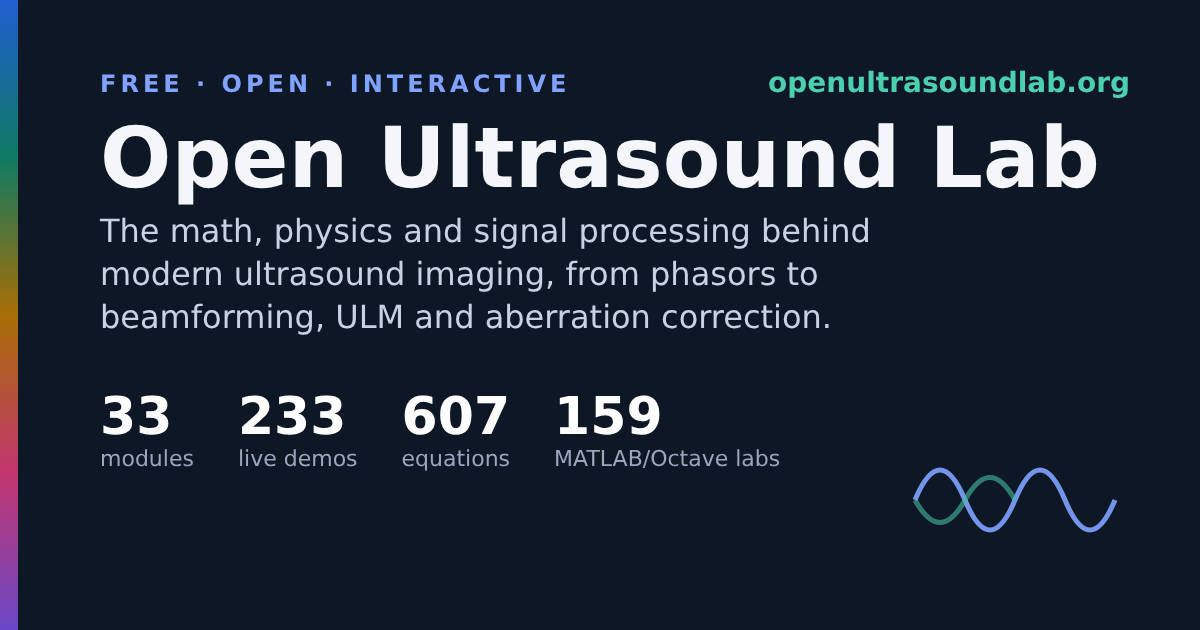
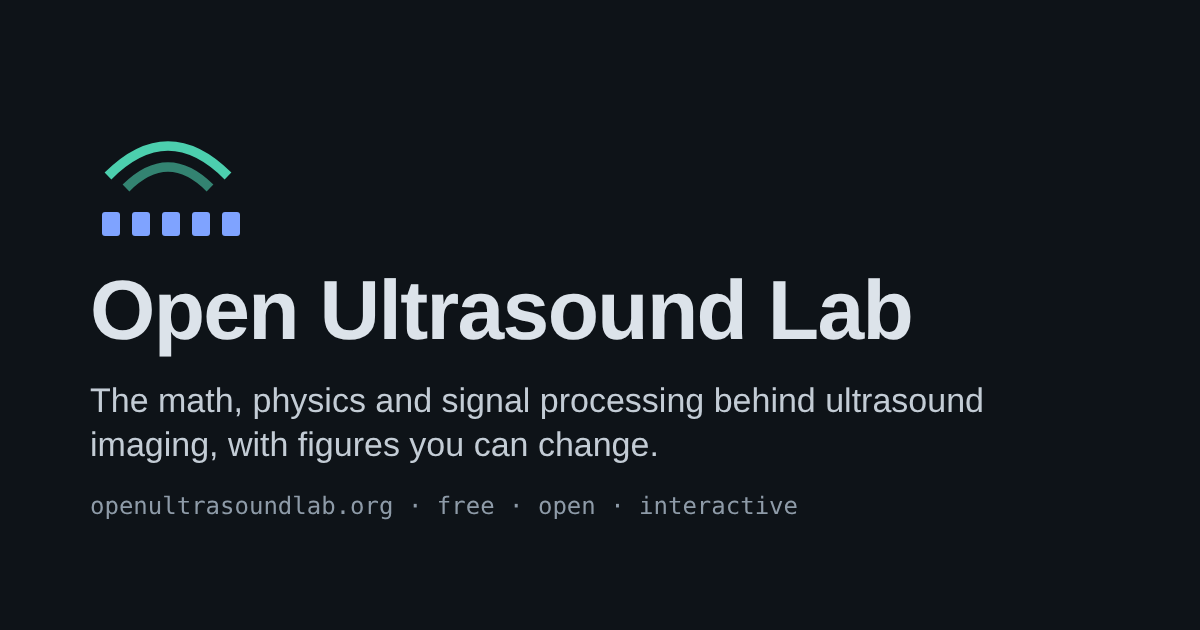
V1.3.1, new header, homepage

diff --git a/m33.html b/m33.html
@@ -93,7 +93,7 @@
     <p>Using more pairs breaks the random walk. Every pair \((i, j)\) up to a lag \(L\) gives a measured difference \(\hat d_{ij}\) of known reliability, and the profile is the weighted least-squares solution of an overdetermined system (Module 13) whose unknowns sit on the nodes of a graph and whose data sit on its edges, with one extra row to fix the constant:</p>
     <div class="eqn" id="m33-eq5">
       <div class="eqn-body"><div class="eqn-math">\[ \hat{\mathbf{t}} = \arg\min_{\mathbf{t}} \sum_{1 \le j - i \le L} w_{ij}\,\bigl(\tau_j - \tau_i - \hat d_{ij}\bigr)^{2} + \bigl(\mathbf{1}^{T}\mathbf{t}\bigr)^{2} = \bigl(\mathbf{A}^{T}\mathbf{W}\mathbf{A} + \mathbf{1}\mathbf{1}^{T}\bigr)^{-1}\mathbf{A}^{T}\mathbf{W}\,\hat{\mathbf{d}}, \qquad w_{ij} = \frac{\lvert\rho_{ij}\rvert^{2}}{1 - \lvert\rho_{ij}\rvert^{2}} \]</div><span class="eqn-no">(33.5)</span></div>
-      <dl class="where"><dt>\(\mathbf{t}\)</dt><dd>vector of element delays \(\tau_i\), s</dd><dt>\(\mathbf{A}\)</dt><dd>difference operator: one row per pair, −1 at \(i\), +1 at \(j\)</dd><dt>\(\mathbf{W}\)</dt><dd>diagonal weights; \(w_{ij}\) is proportional to the inverse variance of a correlation phase (Module 11, Section 32.4)</dd><dt>\(\rho_{ij}\)</dt><dd>measured correlation coefficient of the pair</dd><dt>\(L\)</dt><dd>maximum lag used</dd><dt>\(\hat{\mathbf{t}},\ \hat{\mathbf{d}}\)</dt><dd>estimated delay vector and vector of measured pair differences \(\hat d_{ij}\), s</dd><dt>\(\tau_i,\ \tau_j\)</dt><dd>delays of elements \(i\) and \(j\), s</dd><dt>\(w_{ij}\)</dt><dd>weight of pair \((i,j)\), dimensionless</dd><dt>\(\mathbf{1}\)</dt><dd>vector of ones (the term pins the mean delay to zero)</dd><dt>\((\cdot)^{T},\ (\cdot)^{-1}\)</dt><dd>transpose, matrix inverse</dd><dt>\(\arg\min\)</dt><dd>minimizing argument</dd></dl>
+      <dl class="where"><dt>\(\mathbf{t}\)</dt><dd>vector of element delays \(\tau_i\), s</dd><dt>\(\mathbf{A}\)</dt><dd>difference operator: one row per pair, −1 at \(i\), +1 at \(j\)</dd><dt>\(\mathbf{W}\)</dt><dd>diagonal weights; \(w_{ij}\) is proportional to the inverse variance of a correlation phase (Module 11; Module 32, Section 32.4)</dd><dt>\(\rho_{ij}\)</dt><dd>measured correlation coefficient of the pair</dd><dt>\(L\)</dt><dd>maximum lag used</dd><dt>\(\hat{\mathbf{t}},\ \hat{\mathbf{d}}\)</dt><dd>estimated delay vector and vector of measured pair differences \(\hat d_{ij}\), s</dd><dt>\(\tau_i,\ \tau_j\)</dt><dd>delays of elements \(i\) and \(j\), s</dd><dt>\(w_{ij}\)</dt><dd>weight of pair \((i,j)\), dimensionless</dd><dt>\(\mathbf{1}\)</dt><dd>vector of ones (the term pins the mean delay to zero)</dd><dt>\((\cdot)^{T},\ (\cdot)^{-1}\)</dt><dd>transpose, matrix inverse</dd><dt>\(\arg\min\)</dt><dd>minimizing argument</dd></dl>
       <span class="note">\(\mathbf{A}^{T}\mathbf{W}\mathbf{A}\) is a weighted graph Laplacian whose only null vector is the constant; the \(\mathbf{1}\mathbf{1}^{T}\) term removes it. With \(L = 1\) the solution is the integrated nearest-neighbour estimate; each added lag adds a path between distant elements that does not accumulate the intermediate errors.</span>
     </div>
     <p>m33_nn_crosscorr_correction.m synthesizes speckle channel data (128 elements, 60 % bandwidth, dynamic receive focus) through a 40 ns, 4 mm screen applied on transmit and receive, and finds two regimes. <strong>Noiseless speckle</strong>: the adjacent-element correlation is 0.992, the pair jitter only 0.68 ns, yet the residual after correction is 5.7 ns rms, three times the random-walk prediction, and least squares does not reduce it. That residual is a <em>bias</em>: the aberrated transmit beam insonifies a broad, irregular spot, and the echoes estimate the law that focuses on that spot, not on the intended point. Transmitting again with the pass-1 estimate narrows the spot and halves the residual (2.6 ns, Strehl 0.992). <strong>0 dB channel SNR</strong>: correlation 0.50, jitter 4.5 ns, and now the drift dominates: after the transmit iteration the nearest-neighbour residual is 8.3 ns (Strehl 0.93) and least squares over 8 lags gives 4.0 ns (Strehl 0.98). The random-walk bound \(\sigma_\varepsilon\sqrt{N/15}\) = 13.1 ns overestimates because part of the error is element noise, which telescopes.</p>

diff --git a/build_site.py b/build_site.py
@@ -247,14 +247,55 @@ SITE_CSS = r'''<style>
 @media (max-width: 860px) {
   .site-rail details.part, .site-rail .quick, .site-rail .part h4 { display: none; }
   .site-rail .part.cur { display: contents; }
+  .site-rail .brand .bt { display: none; } .site-rail .brand .mark { width: 30px; height: 26px; }
   .site-rail .allmods { display: block; white-space: nowrap; font: 600 0.82rem var(--f-display); text-decoration: none; padding: 6px 8px; }
   .page-meta { margin-top: 0; }
 }
+.site-rail .rmenu { display: none; }
+@media (max-width: 860px) {
+  .site-rail .rmenu { display: block; position: sticky; right: 0; margin-left: auto; padding-left: 6px; background: var(--paper); z-index: 2; }
+  .site-rail .rmenu > summary { list-style: none; width: 44px; height: 40px; display: flex; align-items: center; justify-content: center; border-radius: 8px; cursor: pointer; color: var(--ink); }
+  .site-rail .rmenu > summary::-webkit-details-marker { display: none; }
+  .site-rail .rmenu > summary:hover, .site-rail .rmenu[open] > summary { background: var(--grid); }
+  .site-rail .rmenu-pop { position: fixed; right: max(8px, env(safe-area-inset-right, 0px)); top: calc(env(safe-area-inset-top, 0px) + 60px); width: min(300px, calc(100vw - 24px));
+    max-height: calc(100vh - 80px); overflow-y: auto; overscroll-behavior: contain; padding: 10px 10px 12px; background: var(--panel); border: 1px solid var(--rule); border-radius: 12px; box-shadow: 0 12px 28px rgba(0,0,0,.25); z-index: 60; }
+  .site-rail .rmenu-pop .os-menu { margin-bottom: 4px; }
+  .site-rail .rmenu-pop .mh { margin: 10px 4px 4px; font: 600 0.7rem/1.3 var(--f-display); letter-spacing: .14em; text-transform: uppercase; color: var(--muted); }
+  .site-rail .mpart > summary { list-style: none; cursor: pointer; padding: 8px 4px; font: 600 0.86rem/1.3 var(--f-display); color: var(--ink); border-left: 3px solid var(--pc, var(--accent)); padding-left: 8px; margin: 2px 0; }
+  .site-rail .mpart > summary::-webkit-details-marker { display: none; }
+  .site-rail .mpart a, .site-rail .msite a { display: block; padding: 8px 6px 8px 12px; border-radius: 6px; color: var(--ink); text-decoration: none; font: 500 0.9rem/1.3 var(--f-display); white-space: normal; }
+  .site-rail .mpart a .num { font: 600 0.76rem var(--f-mono); color: var(--muted); margin-right: 8px; }
+  .site-rail .mpart a[aria-current="page"] { background: var(--accent-wash); color: var(--accent); }
+  .site-rail .mpart a:hover, .site-rail .msite a:hover { background: var(--grid); }
+  .site-rail .msite { display: grid; grid-template-columns: 1fr 1fr; gap: 0 4px; } .site-rail .msite a { padding-left: 6px; }
+}
 /* ---- standalone pages (landing, about, ...) ---- */
-.top { display: flex; flex-wrap: wrap; align-items: baseline; gap: 6px 22px; padding: 14px clamp(16px, 4vw, 56px); border-bottom: 1px solid var(--rule); }
-.top .brand { font: 700 1.08rem/1.15 var(--f-display); font-stretch: 82%; color: var(--ink); text-decoration: none; margin-right: auto; }
-.top nav { display: flex; flex-wrap: wrap; gap: 4px 18px; font: 500 0.9rem/1.4 var(--f-display); }
-.top nav a { color: var(--ink); text-decoration: none; } .top nav a:hover, .top nav a[aria-current="page"] { color: var(--accent); }
+.top { position: sticky; top: env(safe-area-inset-top, 0px); z-index: 40; display: flex; align-items: center; gap: 6px 22px; min-height: 60px; box-sizing: border-box;
+  padding: 0 max(clamp(16px, 4vw, 56px), env(safe-area-inset-right, 0px)) 0 max(clamp(16px, 4vw, 56px), env(safe-area-inset-left, 0px));
+  background: color-mix(in srgb, var(--paper) 92%, transparent); -webkit-backdrop-filter: blur(8px); backdrop-filter: blur(8px); border-bottom: 1px solid var(--rule); }
+.top .brand { display: flex; align-items: center; gap: 10px; font: 700 1.08rem/1.15 var(--f-display); font-stretch: 82%; color: var(--ink); text-decoration: none; margin-right: auto; white-space: nowrap; text-transform: none; letter-spacing: 0; }
+.mark .mk-w { fill: none; stroke: var(--sig4); stroke-width: 1.6; } .mark .mk-w2 { opacity: .6; } .mark .mk-e { fill: var(--accent); }
+.top nav.main { display: flex; align-items: center; gap: 4px 20px; font: 500 0.92rem/1.4 var(--f-display); }
+.top nav.main > a, .top .more > summary { color: var(--ink); text-decoration: none; padding: 19px 0 17px; border-bottom: 2px solid transparent; cursor: pointer; }
+.top nav.main > a:hover, .top .more > summary:hover { color: var(--accent); }
+.top nav.main > a[aria-current="page"], .top .more > summary.cur { border-bottom-color: var(--accent); }
+.top details > summary { list-style: none; } .top details > summary::-webkit-details-marker { display: none; }
+.top .more { position: relative; } .top .more > summary::after { content: " \25BE"; font-size: .8em; color: var(--muted); }
+.top .more-pop { position: absolute; right: 0; top: calc(100% + 6px); min-width: 12rem; display: flex; flex-direction: column; padding: 6px; background: var(--panel); border: 1px solid var(--rule); border-radius: 10px; box-shadow: 0 10px 30px rgba(0,0,0,.18); }
+.top .more-pop a { color: var(--ink); text-decoration: none; padding: 9px 10px; border-radius: 6px; } .top .more-pop a:hover, .top .more-pop a[aria-current="page"] { background: var(--grid); color: var(--accent); }
+.top .ico { width: 44px; height: 44px; display: none; align-items: center; justify-content: center; color: var(--ink); background: none; border: 0; border-radius: 8px; cursor: pointer; padding: 0; }
+.top .ico:hover { background: var(--grid); } .top .ico:focus-visible, .top summary:focus-visible { outline: 2px solid var(--accent); outline-offset: 2px; }
+.top .menu { display: none; position: static; }
+.top .menu-pop { position: absolute; right: max(8px, env(safe-area-inset-right, 0px)); top: calc(100% + 4px); width: min(250px, calc(100vw - 32px)); max-height: calc(100vh - 80px); overflow-y: auto; display: flex; flex-direction: column; gap: 4px;
+  padding: 6px 10px 8px; background: var(--panel); border: 1px solid var(--rule); border-radius: 12px; box-shadow: 0 12px 28px rgba(0,0,0,.25); }
+.top .mgrp { display: flex; flex-direction: column; } .top .mgrp p { margin: 6px 0 0; font: 600 0.72rem/1.3 var(--f-display); letter-spacing: .14em; text-transform: uppercase; color: var(--muted); }
+.top .mgrp a { color: var(--ink); text-decoration: none; font: 500 0.98rem/1.3 var(--f-display); padding: 10px 4px; border-radius: 6px; } .top .mgrp a:hover { background: var(--grid); } .top .mgrp a:last-child { border-bottom: 0; }
+.top .mgrp a[aria-current="page"] { color: var(--accent); }
+@media (max-width: 860px) {
+  .top { flex-wrap: wrap; gap: 0 2px; padding-right: max(8px, env(safe-area-inset-right, 0px)); min-height: 56px; }
+  .top nav.main { display: none; } .top .ico { display: flex; } .top .menu { display: block; }
+  .top .os-top { display: none; order: 9; width: 100% !important; flex-basis: 100%; padding: 0 8px 10px 0; } .top.searching .os-top { display: block; }
+}
 .page { max-width: 1060px; padding: 28px clamp(16px, 4vw, 56px) 64px; }
 .page .prose { max-width: 72ch; }
 .page pre.cite { font: 400 0.8rem/1.55 var(--f-mono); background: var(--code-bg); border: 1px solid var(--rule); border-radius: var(--radius); padding: 12px 14px; overflow-x: auto; white-space: pre; }
@@ -271,6 +312,27 @@ SITE_CSS = r'''<style>
 .hero .by { color: var(--muted); font-size: 0.95rem; margin: 2px 0 0; }
 .hero .cta { display: flex; flex-wrap: wrap; gap: 10px; margin-top: 18px; }
 .hero .cta a { text-decoration: none; }
+.hero2 { display: block; max-width: none; padding-top: 30px; }
+.hero2 h1 { font-size: clamp(2.4rem, 5vw, 3.7rem); line-height: 1; }
+.hero2 .lede { font-size: 1.12rem; }
+.hero2 .statline { font: 400 0.84rem/1.5 var(--f-mono); color: var(--muted); margin: 16px 0 0; }
+.hero-map { min-width: 0; margin-top: 30px; } .hero2 .hero-text { max-width: 760px; } .hero-map .aperture-cap { margin: 0 0 8px; } 
+.hero-map .pathbar { margin: 12px 0 0; } .hero-map .pathbar .btn { font-size: .84rem; padding: 7px 11px; } .hero-map .paths { grid-template-columns: minmax(0, 1fr); margin-top: 10px; }
+.beamfig { margin: 0; background: var(--panel); border: 1px solid var(--rule); border-radius: 12px; padding: 12px 14px 12px; min-width: 0; }
+.beamfig .bf-head { display: flex; justify-content: space-between; align-items: center; gap: 8px; font: 600 0.86rem/1.3 var(--f-display); margin-bottom: 4px; }
+.beamfig canvas { display: block; width: 100%; touch-action: pan-y; }
+.bf-ctl { display: flex; flex-direction: column; gap: 8px; margin-top: 4px; }
+.bf-ctl label { display: flex; justify-content: space-between; font: 500 0.86rem/1.3 var(--f-display); }
+.bf-ctl output { font-family: var(--f-mono); color: var(--accent); }
+.bf-ctl input[type=range] { width: 100%; accent-color: var(--accent); }
+.bf-seg { display: flex; gap: 6px; flex-wrap: wrap; }
+.bf-seg button { flex: 1 1 10rem; min-height: 40px; font: 500 0.82rem/1.2 var(--f-display); color: var(--ink); background: transparent; border: 1px solid var(--rule); border-radius: 8px; cursor: pointer; padding: 6px 8px; }
+.bf-seg button[aria-pressed="true"] { border-color: var(--accent); background: color-mix(in srgb, var(--accent) 14%, transparent); }
+.bf-read { margin: 0; font: 400 0.8rem/1.4 var(--f-mono); color: var(--muted); }
+.beamfig figcaption { margin-top: 8px; font: 400 0.76rem/1.45 var(--f-display); color: var(--muted); }
+.path details.pmods > summary { cursor: pointer; font: 500 0.88rem/1.3 var(--f-display); color: var(--accent); padding: 4px 0; }
+.path details.pmods[open] > summary { margin-bottom: 6px; }
+@media (max-width: 860px) { .hero2 { grid-template-columns: minmax(0, 1fr); padding-top: 18px; gap: 18px; } .hero2 .cta .btn { flex: 1 1 auto; text-align: center; } }
 .aperture-wrap { margin: 34px 0 6px; }
 .aperture-cap { font: 400 0.84rem/1.45 var(--f-display); color: var(--muted); margin: 0 0 8px; max-width: 72ch; }
 .aperture { display: grid; grid-template-columns: repeat(var(--nmods, 34), minmax(0, 1fr)); gap: 3px; }
@@ -330,8 +392,11 @@ SITE_CSS = r'''<style>
 .iv-toc { columns: 3 15em; column-gap: 24px; font-size: 0.9rem; padding-left: 0; list-style: none; }
 .iv-toc .num { font: 600 0.76rem var(--f-mono); color: var(--muted); margin-right: 6px; }
 @media (max-width: 700px) {
-  .aperture { grid-template-columns: repeat(11, minmax(0, 1fr)); row-gap: 6px; }
-  .aperture a.el { height: 46px; }
+  .aperture { grid-template-columns: repeat(12, minmax(0, 1fr)); row-gap: 5px; }
+  .aperture a.el { height: 34px; font-size: .72rem; }
+  .hero-map .pathbar { display: grid; grid-template-columns: repeat(2, minmax(0, 1fr)); gap: 6px; }
+  .hero-map .pathbar .btn { font-size: .78rem; padding: 7px 8px; line-height: 1.2; }
+  .aperture.has-path a.el.on { transform: translateY(-3px); }
   .aperture .plab { display: none; }
 }
 @media (prefers-reduced-motion: reduce) { .aperture a.el { transition: none; } .aperture.has-path a.el.on { transform: none; } }
@@ -371,7 +436,7 @@ SEARCH_CSS = r"""
 #os-list .os-none { padding: 10px 12px; color: var(--muted); }
 :target { scroll-margin-top: 76px; }
 .demo:target, .rule:target, .eqn:target, details.quiz:target, tr:target { outline: 2px solid var(--accent); outline-offset: 2px; }
-@media (max-width: 860px) { .site-rail .os-rail { display: none; } .os-meta { display: block; } .top .os-box { width: 100%; order: 3; } }
+@media (max-width: 860px) { .site-rail .os-rail { display: none; } .os-meta { display: block; } }
 """
 SITE_CSS = SITE_CSS.replace('</style>', SEARCH_CSS + '</style>')
 SITE_CSS = SITE_CSS.replace('</style>', '''.rv-steps { padding-left: 1.2em; } .rv-steps li { margin: 6px 0; } .rv-d { display: inline-block; min-width: 6.5em; color: var(--muted); font-size: 0.9em; }
@@ -446,10 +511,10 @@ def header_v2(body, n):
     obj_ul, ass = m.group(1), m.group(2)
     items = []
     for li in re.findall(r'<li>(.*?)</li>', ass, re.S):
-        a = re.search(r'(<a [^>]*>)Module (\d+)</a>', li)
-        rest = re.sub(r'^.*?</a>\s*·?\s*', '', li, flags=re.S).strip()
-        hint = rest.split(':', 1)[1].strip() if ':' in rest else rest
-        items.append((a.group(1) + a.group(2) + '</a> ' if a else '') + hint)
+        # Compact only the canonical form "<a>Module NN</a> · Title: hint"; keep any other phrasing verbatim
+        # (31 Oct 2026: free-form items rendered as "Builds on );" in M16/M33 and lost module refs elsewhere).
+        a = re.match(r'\s*(<a [^>]*>)Module (\d+)</a>\s*·\s*([^<]*?):\s*(.*)$', li, re.S)
+        items.append(a.group(1) + a.group(2) + '</a> ' + a.group(4).strip() if a else li.strip())
     builds = '<p class="builds"><span class="lbl">Builds on</span> ' + ' · '.join(items) + '</p>' if items else ''
     heads = re.findall(r'<h2 id="(m%d-(?:s[^"]+|interview))">\s*<span class="sec">([\d.]+)</span>(.*?)</h2>' % n, body, re.S)
     kw = TOC_KW.get(str(n), {})
@@ -805,17 +870,36 @@ def head(title, desc, depth, extra='', path=None, kind='website'):
             f'<title>{esc(title)}</title>\n<meta name="description" content="{attr(desc)}">\n'
             f'<meta property="og:title" content="{attr(title)}">\n<meta property="og:description" content="{attr(desc)}">\n'
             + seo_tags(title, desc, path, kind)
+            + f'<link rel="icon" href="{"../" * depth}favicon.svg" type="image/svg+xml">\n<link rel="icon" href="{"../" * depth}favicon-32.png" sizes="32x32" type="image/png">\n<link rel="apple-touch-icon" href="{"../" * depth}apple-touch-icon.png">\n'
             + HEAD_CSS + '\n' + SITE_CSS + '\n' + search_script(depth) + extra + '</head>\n')
+
+
+MARK = '<svg class="mark" viewBox="0 0 26 22" width="26" height="22" aria-hidden="true"><path class="mk-w" d="M3 11 Q13 1 23 11"/><path class="mk-w mk-w2" d="M6 13 Q13 6 20 13"/><rect class="mk-e" x="2" y="17" width="3" height="4" rx=".5"/><rect class="mk-e" x="7" y="17" width="3" height="4" rx=".5"/><rect class="mk-e" x="12" y="17" width="3" height="4" rx=".5"/><rect class="mk-e" x="17" y="17" width="3" height="4" rx=".5"/><rect class="mk-e" x="22" y="17" width="3" height="4" rx=".5"/></svg>'
+ICON_SEARCH = '<svg viewBox="0 0 20 20" width="20" height="20" aria-hidden="true"><circle cx="8.5" cy="8.5" r="6" fill="none" stroke="currentColor" stroke-width="1.8"/><path d="M13 13 L18 18" stroke="currentColor" stroke-width="1.8" stroke-linecap="round"/></svg>'
+ICON_MENU = '<svg viewBox="0 0 22 22" width="22" height="22" aria-hidden="true"><path d="M3 6h16M3 11h16M3 16h16" stroke="currentColor" stroke-width="1.8" stroke-linecap="round"/></svg>'
 
 
 def topbar(depth, cur=''):
     up = '../' * depth
-    items = [('index.html#map', 'Modules', 'map'), ('index.html#paths', 'Learning paths', 'paths'),
-             ('formula-sheet/index.html', 'Formula sheet', 'sheet'), ('interview/index.html', 'Interview prep', 'interview'),
-             ('glossary.html', 'Glossary', 'glossary'), ('about.html', 'About', 'about'), ('errata.html', 'Review &amp; errata', 'errata')]
-    nav = ''.join(f'<a href="{up}{h}"' + (' aria-current="page"' if k == cur else '') + f'>{t}</a>' for h, t, k in items)
-    return (f'<a class="skip" href="#main">Skip to content</a><header class="top"><a class="brand" href="{up}index.html">Open Ultrasound Lab</a>'
-            f'<nav aria-label="Site">{nav}</nav>{search_box("top", depth)}</header>\n')
+    def a(h, t, k):
+        return f'<a href="{up}{h}"' + (' aria-current="page"' if k == cur else '') + f'>{t}</a>'
+    main = [('index.html#map', 'Modules', 'map'), ('index.html#paths', 'Learning paths', 'paths'),
+            ('formula-sheet/index.html', 'Formula sheet', 'sheet'), ('interview/index.html', 'Interview prep', 'interview')]
+    more = [('glossary.html', 'Glossary', 'glossary'), ('about.html', 'About', 'about'), ('errata.html', 'Review &amp; errata', 'errata')]
+    groups = [('Learn', [main[0], main[1], main[3]]), ('Reference', [main[2], more[0]]), ('About', [('about.html', 'About this lab', 'about'), more[2]])]
+    nav = ''.join(a(*i) for i in main)
+    nav += ('<details class="more"><summary' + (' class="cur"' if cur in ('glossary', 'about', 'errata') else '') + '>More</summary><div class="more-pop">'
+            + ''.join(a(*i) for i in more) + '</div></details>')
+    menu = ''.join(f'<div class="mgrp"><p>{g}</p>' + ''.join(a(*i) for i in items) + '</div>' for g, items in groups)
+    js = ("<script>(function(){var t=document.currentScript.parentNode,b=t.querySelector('.ico-srch'),q=t.querySelector('.os-top input');"
+          "if(b&&q)b.addEventListener('click',function(){var on=t.classList.toggle('searching');b.setAttribute('aria-expanded',on?'true':'false');if(on)q.focus();});"
+          "t.querySelectorAll('details').forEach(function(d){d.addEventListener('toggle',function(){if(d.open)t.querySelectorAll('details').forEach(function(o){if(o!==d)o.open=false;});});});"
+          "t.querySelectorAll('details a').forEach(function(l){l.addEventListener('click',function(){t.querySelectorAll('details[open]').forEach(function(d){d.open=false;});});});document.addEventListener('keydown',function(e){if(e.key==='Escape')t.querySelectorAll('details[open]').forEach(function(d){d.open=false;});});document.addEventListener('click',function(e){if(!t.contains(e.target))t.querySelectorAll('details[open]').forEach(function(d){d.open=false;});});})();</script>")
+    return (f'<a class="skip" href="#main">Skip to content</a><header class="top"><a class="brand" href="{up}index.html">{MARK}<span>Open Ultrasound Lab</span></a>'
+            f'<nav class="main" aria-label="Site">{nav}</nav>{search_box("top", depth)}'
+            f'<button class="ico ico-srch" type="button" aria-label="Search the course" aria-expanded="false">{ICON_SEARCH}</button>'
+            f'<details class="menu"><summary class="ico" aria-label="Menu">{ICON_MENU}</summary><nav class="menu-pop" aria-label="Site menu">{menu}</nav></details>'
+            f'{js}</header>\n')
 
 
 def static_page(path, title, desc, body, cur='', mathjax=False, ld=None):
@@ -846,7 +930,7 @@ def rail_html(cur):
     up = rel('.', from_dir) if from_dir else '.'
     up = up + '/'
     h = [f'<aside class="rail site-rail" aria-label="Course modules">',
-         f'<a class="brand" href="{up}index.html">Open Ultrasound Lab<small>{len(MODS)} modules in six parts</small></a>',
+         f'<a class="brand" href="{up}index.html">{MARK}<span class="bt"> Open Ultrasound Lab</span><small>Math · physics · hardware · signal processing</small></a>',
          f'<div class="quick"><a href="{up}index.html#paths">Learning paths</a><a href="{up}formula-sheet/index.html">Formula sheet</a>'
          f'<a href="{up}interview/index.html">Interview prep</a></div>', search_box('rail', 2)]
     for i, (ro, name, a, z) in enumerate(PARTS, 1):
@@ -863,7 +947,19 @@ def rail_html(cur):
             h.append(f'<div class="part cur p{i}"><h4>{label}</h4>{nav}</div>')
         else:
             h.append(f'<details class="part p{i}"><summary>{label}</summary>{nav}</details>')
-    h.append(f'<a class="allmods" href="{up}index.html#map">All parts</a>')
+    mparts = []
+    for i, (ro, name, a, z) in enumerate(PARTS, 1):
+        ml = ''.join(f'<a href="{"#top" if n == cur else rel(MODS[n]["url"], from_dir)}"' + (' aria-current="page"' if n == cur else '') + f'><span class="num">{n:02d}</span>{esc(MODS[n]["short"])}</a>'
+                     for n in range(a, z + 1) if n in MODS)
+        mparts.append(f'<details class="mpart p{i}"' + (' open' if part_of(cur) == i else '') + f'><summary>Part {ro} · {esc(name)}</summary>{ml}</details>')
+    site = ''.join(f'<a href="{up}{hh}">{tt}</a>' for hh, tt in [('index.html', 'Home'), ('index.html#paths', 'Learning paths'), ('formula-sheet/index.html', 'Formula sheet'),
+                                                                  ('interview/index.html', 'Interview prep'), ('glossary.html', 'Glossary'), ('errata.html', 'Review &amp; errata')])
+    h.append(f'<details class="rmenu"><summary class="ico" aria-label="Menu">{ICON_MENU}</summary><div class="rmenu-pop">{search_box("menu", 2)}'
+             f'<p class="mh">All modules</p>{"".join(mparts)}<p class="mh">Site</p><div class="msite">{site}</div></div></details>')
+    h.append("<script>(function(){var d=document.currentScript.previousElementSibling;if(!d)return;var close=function(){d.open=false;};"
+             "d.querySelectorAll('.rmenu-pop a').forEach(function(l){l.addEventListener('click',close);});"
+             "document.addEventListener('keydown',function(e){if(e.key==='Escape')close();});"
+             "document.addEventListener('click',function(e){if(!d.contains(e.target))close();});})();</script>")
     h.append('</aside>')
     return '\n'.join(h)
 
@@ -1048,7 +1144,7 @@ def landing():
             data = ''
         else:
             lis = ''.join(f'<li><span class="num">{n:02d}</span><a href="{MODS[n]["url"]}">{esc(MODS[n]["short"])}</a></li>' for n in mods if n in MODS)
-            body = f'<p>{esc(desc)} {len(mods)} modules, in order.</p><ol>{lis}</ol>'
+            body = f'<p>{esc(desc)}</p><details class="pmods" open><summary>The {len(mods)} modules, in order</summary><ol>{lis}</ol></details>'
             data = ' data-mods="' + ','.join(str(n) for n in mods) + '"'
         paths.append(f'<div class="path" id="path-{key}"{data}><h3>{esc(name)}</h3>{body}</div>')
         btns.append(f'<button class="btn" type="button" data-path="{key}" aria-pressed="false" aria-controls="path-{key}">{esc(name)}</button>')
@@ -1062,7 +1158,7 @@ def landing():
   function pick(key) {
     var mods = [];
     btns.forEach(function (b) { var on = b.dataset.path === key; b.setAttribute('aria-pressed', on ? 'true' : 'false'); });
-    cards.forEach(function (c) { var on = !key || c.id === 'path-' + key; c.hidden = !on; if (key && on && c.dataset.mods) mods = c.dataset.mods.split(',').map(Number); });
+    cards.forEach(function (c) { var on = !!key && c.id === 'path-' + key; c.hidden = !on; if (key && on && c.dataset.mods) mods = c.dataset.mods.split(',').map(Number); });
     ap.classList.toggle('has-path', mods.length > 0);
     ap.querySelectorAll('a.el').forEach(function (a) { a.classList.toggle('on', mods.indexOf(+a.dataset.n) >= 0); });
   }
@@ -1071,47 +1167,43 @@ def landing():
 })();
 </script>'''
 
-    body = f'''<div class="hero">
+    body = f'''<div class="hero hero2">
+  <div class="hero-text">
   <p class="eyebrow">Free · open · interactive</p>
   <h1>Open Ultrasound Lab</h1>
-  <p class="lede">The mathematics, physics and signal processing behind modern ultrasound imaging, from phasors and the FFT to transducers, beamforming, Doppler, elastography, localization microscopy, sound-speed estimation and aberration correction, and on to the display chain, image enhancement and getting a device cleared. Every idea comes with a figure you can change.</p>
-  <ul class="stats" aria-label="Course at a glance">
-    <li><b>{len(MODS)}</b><span>modules in 6 parts</span></li>
-    <li><b>{n_demos}</b><span>live demos</span></li>
-    <li><b>{n_eq}</b><span>numbered equations</span></li>
-    <li><b>{n_scripts}</b><span>MATLAB/Octave labs</span></li>
-    <li><b>{n_questions}</b><span>interview questions</span></li>
-    <li><b>{len(GLOSS)}</b><span>glossary terms</span></li>
-  </ul>
-  {search_box('hero', 0)}
-  <div class="cta"><a class="btn solid" href="{MODS[min(MODS)]["url"]}">Start with module 01</a><a class="btn" href="#paths">Choose a learning path</a><a class="btn" href="formula-sheet/index.html">Formula sheet</a></div>
-  <p class="by">Version {esc(VERSION)} · last reviewed {esc(DATE)}</p>
+  <p class="lede">The mathematics, physics and signal processing behind ultrasound imaging, from phasors to beamforming, Doppler and getting a device cleared. Every idea comes with a figure you can change.</p>
+  <div class="cta"><a class="btn solid" href="{MODS[min(MODS)]["url"]}">Start with module 01</a><a class="btn" href="#paths">Choose a learning path</a></div>
+  <p class="statline">{len(MODS)} modules · {n_demos} live demos · {n_eq} equations · {n_scripts} MATLAB/Octave labs · {n_questions} interview questions · {len(GLOSS)} glossary terms</p>
+  </div>
 </div>
 <section class="note" aria-labelledby="note-h">
   <div class="note-mark" aria-hidden="true">&ldquo;</div>
   <div class="note-body">
     <h2 id="note-h">Why I built this</h2>
     <p class="note-lead">I am an ultrasound engineer, and I am still learning every day.</p>
-    <p>For years I wished the fundamentals, from phasors and the FFT to transducers, beamforming and the newest imaging methods, were gathered in one place and explained with figures you can change. This is my attempt, built with the help of AI and shared freely, especially for students and young engineers who are just getting started.</p>
+    <p>For years I wished the fundamentals, from phasors and the FFT to transducers, beamforming, the newest imaging methods and regulatory planning, were gathered in one place and explained with figures you can change. This is my attempt, built with the help of AI and shared freely, especially for students and young engineers who are just getting started.</p>
     <ul class="note-points">
       <li><b>Free.</b> Not a product; nothing to buy.</li>
-      <li><b>Checked.</b> Numbers come from code you can run.</li>
-      <li><b>Imperfect.</b> It certainly contains mistakes; please tell me.</li>
+      <li><b>Checked.</b> Formulas are recomputed in code; sources are cited.</li>
+      <li><b>Imperfect.</b> Please tell me or contribute.</li>
     </ul>
     <p>If you can explain a topic better, please contribute. I hope it saves you some of the time it would have saved me.</p>
     <div class="note-sig"><span class="name">M. Nguyen</span><span class="role">Ultrasound engineer</span>
       <a class="btn small" href="{attr(AUTHOR)}" rel="noopener">LinkedIn</a><a class="btn small" href="{attr(REPO)}">GitHub</a></div>
   </div>
 </section>
-<div class="aperture-wrap">
-  <p class="aperture-cap">The course as a {len(MODS)}-element array, one element per module, grouped into six parts. Pick a learning path below to light up its active aperture; select an element to open that module.</p>
-  {aperture}
+<div class="hero-maps">
+  <div class="hero-map" id="paths">
+    <p class="aperture-cap">The course as a {len(MODS)}-element array, one element per module. Select an element to open it, or light up a learning path:</p>
+    {aperture}
+    <div class="pathbar" id="pathbar" hidden>{"".join(btns)}</div>
+    <div class="paths" id="paths-list">{"".join(paths)}</div>
+  </div>
 </div>
 
-<h2 id="paths">Learning paths</h2>
-<div class="prose"><p>Each path is an ordered subset of modules for one goal. Earlier modules are prerequisites for later ones, so read them in the order shown.</p></div>
-<div class="pathbar" id="pathbar" hidden>{"".join(btns)}</div>
-<div class="paths" id="paths-list">{"".join(paths)}</div>
+
+
+
 
 <h2 id="map">The six parts</h2>
 <div class="prose"><p>{len(MODS)} modules, {n_demos} interactive demos, {n_eq} numbered equations and {n_scripts} MATLAB/Octave scripts. Each module follows the same arc: an "In 60 seconds" summary and practical lessons "From the field", derivations with live figures and key takeaways per section, a visual summary, how experts think about it, a cheat sheet, interview questions, a MATLAB lab, a self-check, figures from the literature and further reading.</p></div>
@@ -1485,8 +1577,9 @@ def assets():
     for f in sorted((root / 'matlab').glob('*.m')):
         shutil.copy2(f, d / f.name)
     (PUB / '.nojekyll').write_text('', encoding="utf-8")
-    if (root / 'og-card.png').exists():
-        shutil.copy2(root / 'og-card.png', PUB / 'og-card.png')
+    for fn in ('og-card.png', 'favicon.svg', 'favicon-32.png', 'apple-touch-icon.png'):
+        if (root / fn).exists():
+            shutil.copy2(root / fn, PUB / fn)
     (PUB / 'robots.txt').write_text(f'User-agent: *\nAllow: /\n\nSitemap: {SITE_URL}sitemap.xml\n', encoding="utf-8")
     (PUB / 'CITATION.cff').write_text(cff_pub, encoding="utf-8")
     if not LOCAL:
